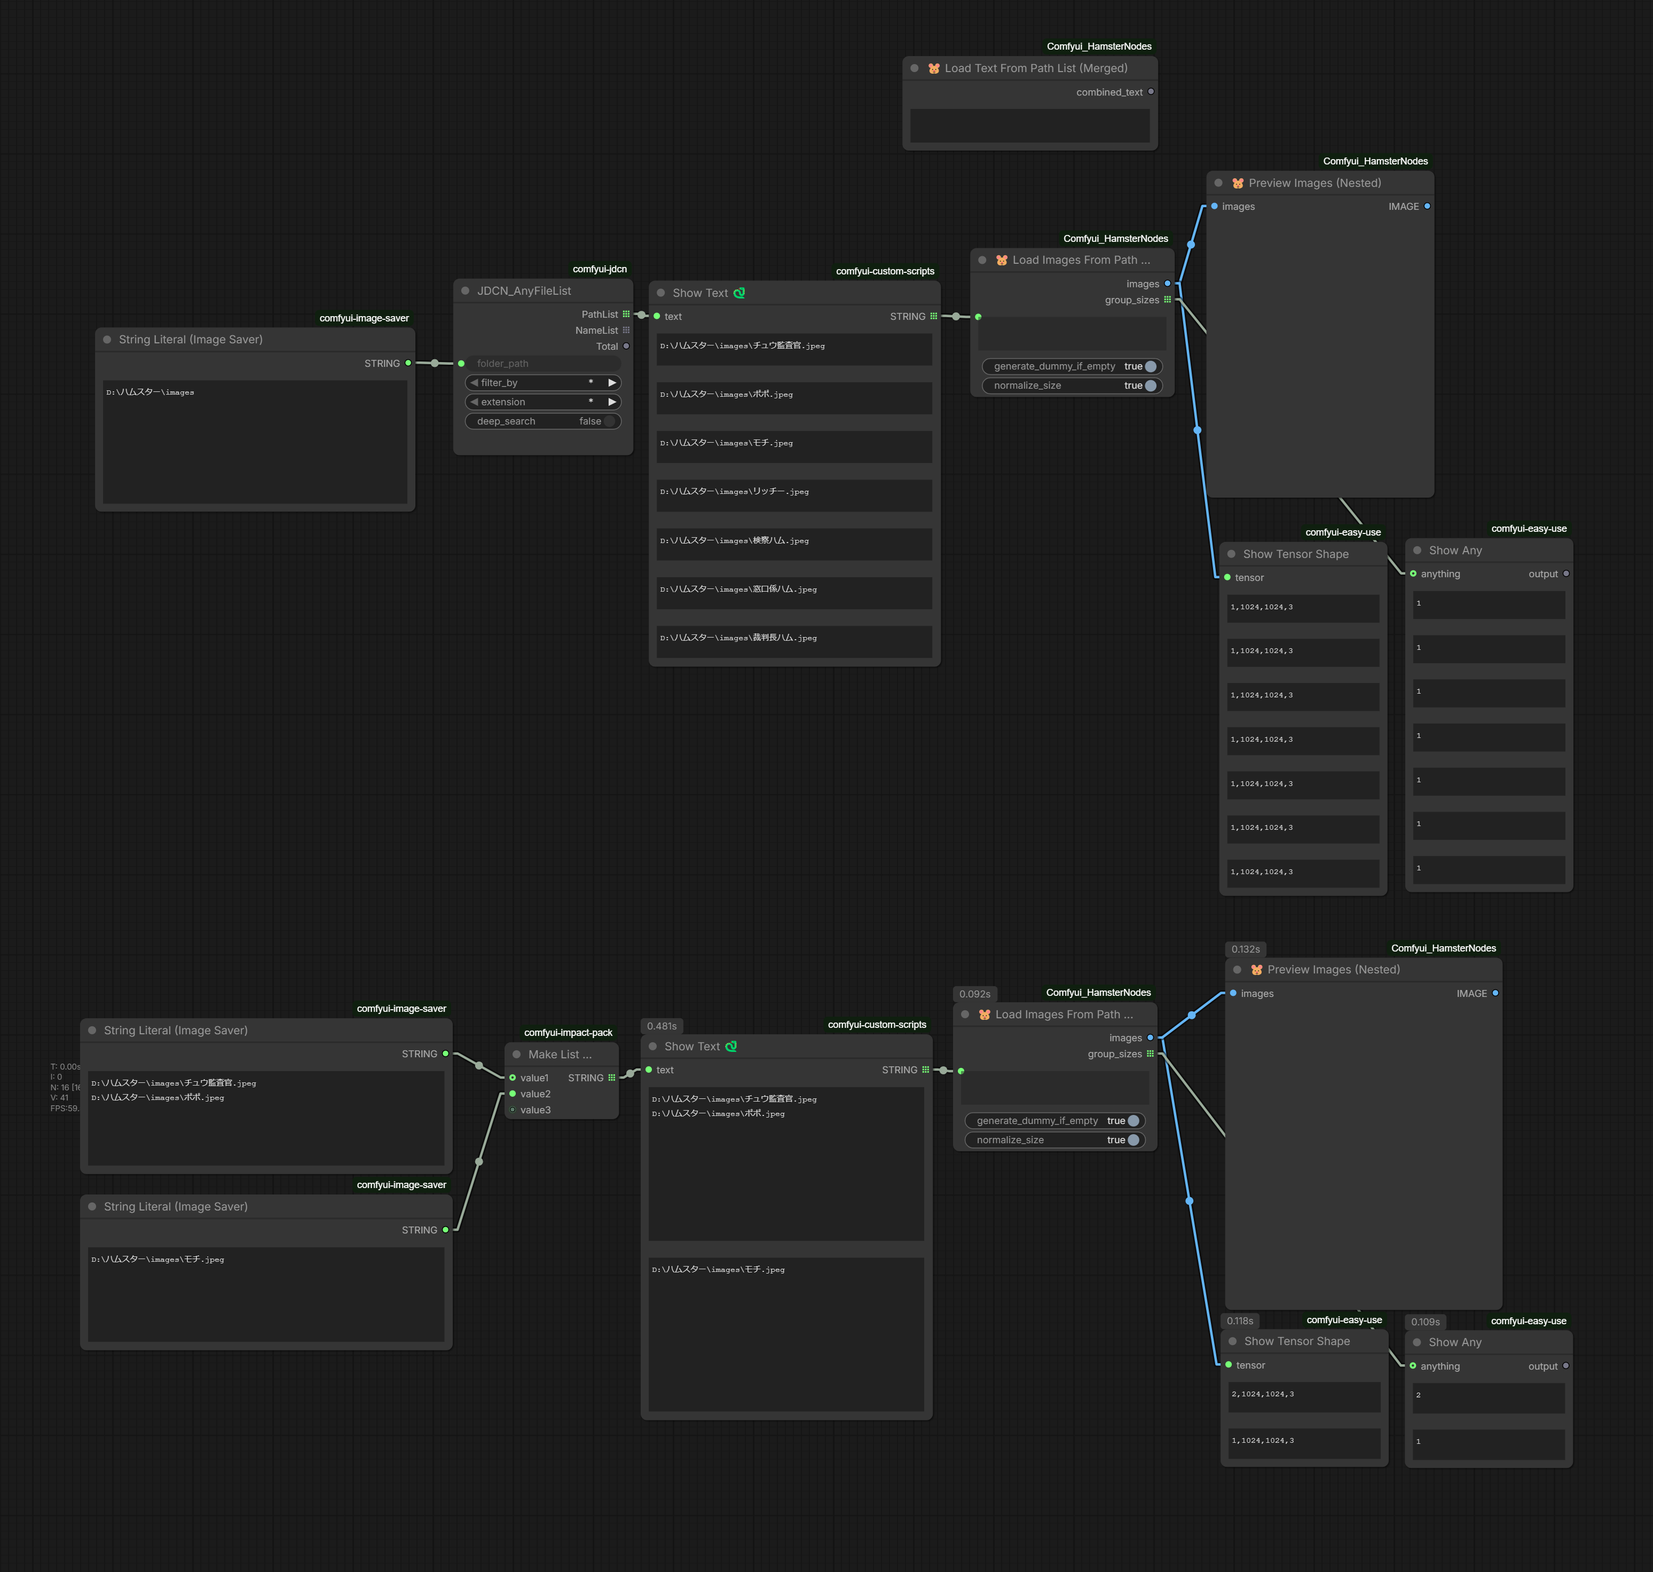
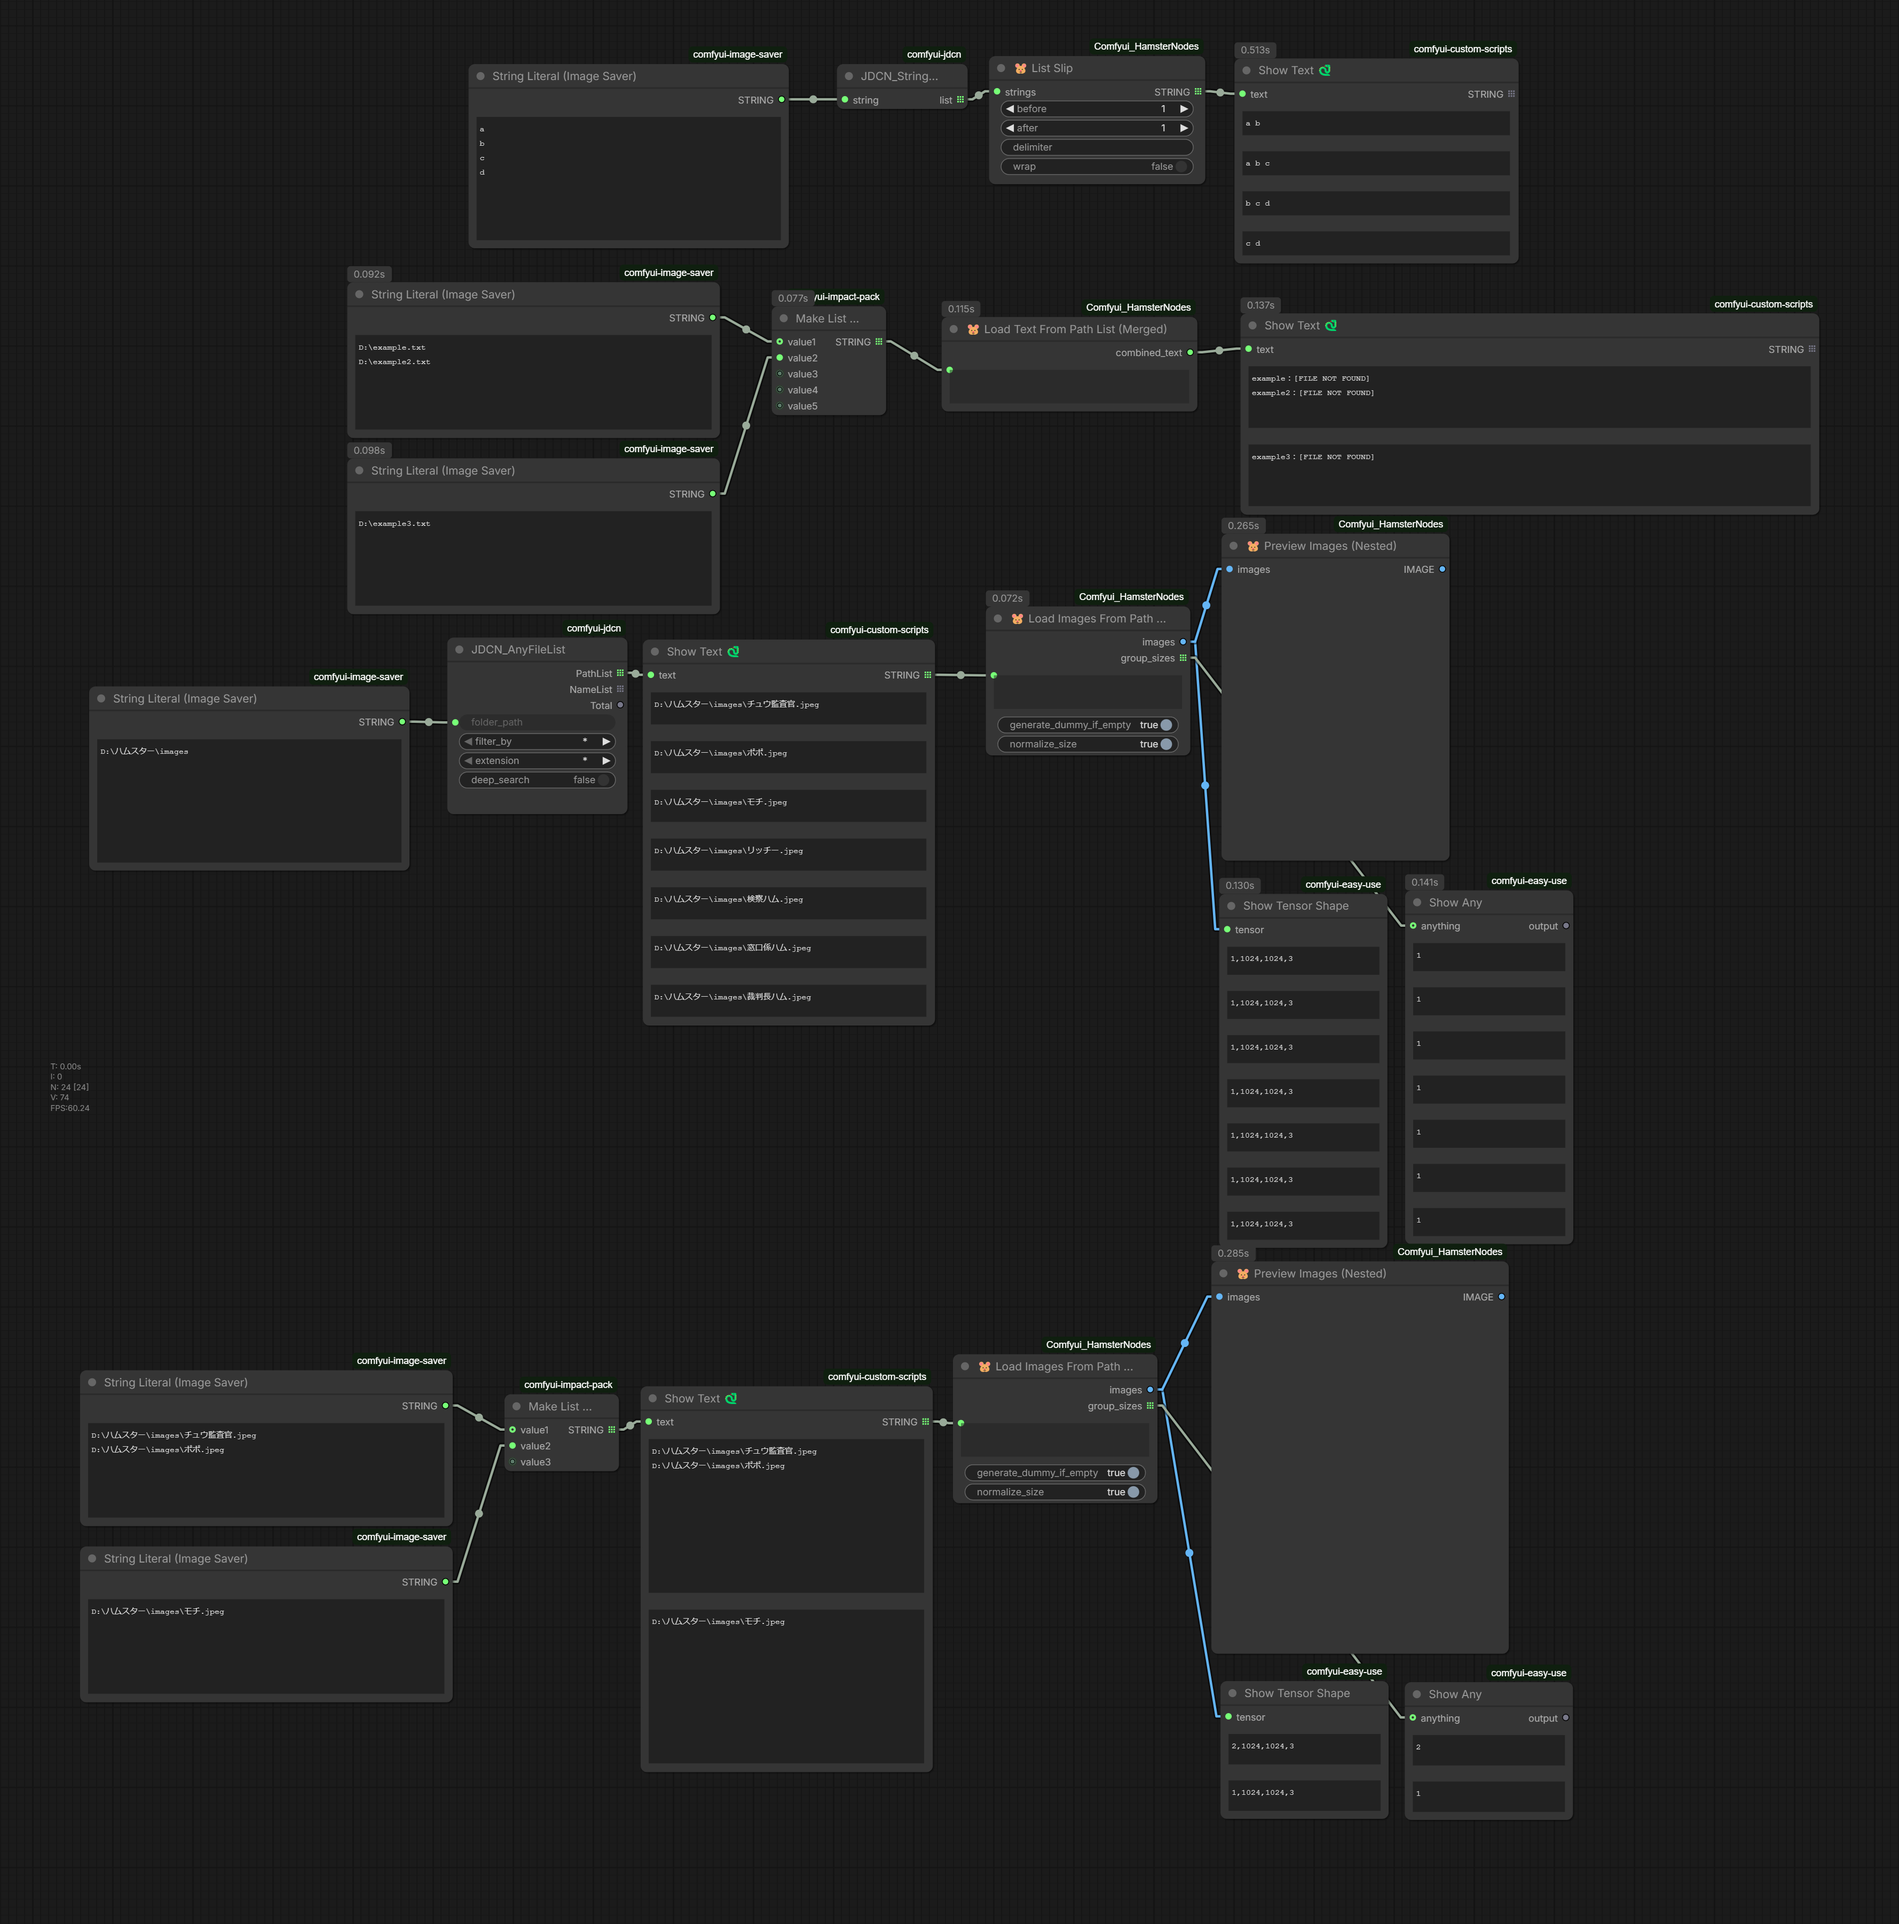
updated

Changed region(s): [[0.031, 0.0, 0.9612, 0.9688], [0.3411, 0.9062, 0.4961, 0.9375]]

diff --git a/js/preview_nested.js b/js/preview_nested.js
@@ -9,9 +9,15 @@ app.registerExtension({
             nodeType.prototype.onExecuted = function (message) {
                 onExecuted?.apply(this, arguments);
 
-                // 既存のウィジェットをクリア
+                // ランダムID（キャッシュ対策）
+                const run_id = Date.now() + "_" + Math.random();
+
+                // 既存widget削除（安全に）
                 if (this.widgets) {
-                    this.widgets = this.widgets.filter(w => w.name !== "nested_preview");
+                    const w = this.widgets.find(w => w.name === "nested_preview");
+                    if (w) {
+                        this.removeWidget?.(w);
+                    }
                 }
 
                 const mainContainer = document.createElement("div");
@@ -24,8 +30,7 @@ app.registerExtension({
                 mainContainer.style.overflowY = "auto";
                 mainContainer.style.overflowX = "hidden";
 
-                // 【重要】ノードの現在のサイズに合わせて初期の高さを設定
-                const headerHeight = 40; // ノードのタイトルバー等の概算高さ
+                const headerHeight = 40;
                 mainContainer.style.height = `${this.size[1] - headerHeight}px`;
 
                 message.nested_images.forEach((group, gIdx) => {
@@ -35,20 +40,28 @@ app.registerExtension({
                     groupWrapper.style.padding = "4px";
                     groupWrapper.style.marginBottom = "5px";
                     groupWrapper.style.backgroundColor = "rgba(0,0,0,0.2)";
-                    groupWrapper.innerHTML = `<div style="font-size:10px; color:#aaa;">Group ${gIdx}</div>`;
+
+                    const label = document.createElement("div");
+                    label.textContent = `Group ${gIdx}`;
+                    label.style.fontSize = "10px";
+                    label.style.color = "#aaa";
+                    groupWrapper.appendChild(label);
 
                     const imgList = document.createElement("div");
                     imgList.style.display = "flex";
                     imgList.style.flexWrap = "wrap";
                     imgList.style.gap = "4px";
 
-                    group.forEach(imgData => {
+                    group.forEach((imgData, i) => {
                         const imgContainer = document.createElement("div");
                         imgContainer.style.flex = "1 1 100px";
                         imgContainer.style.maxWidth = "100%";
 
                         const img = document.createElement("img");
-                        img.src = `/view?filename=${imgData.filename}&type=${imgData.type}`;
+
+                        // ★ キャッシュ完全回避
+                        img.src = `/view?filename=${imgData.filename}&type=${imgData.type}&t=${run_id}_${i}`;
+
                         img.style.width = "100%";
                         img.style.height = "auto";
                         img.style.display = "block";
@@ -56,27 +69,30 @@ app.registerExtension({
                         imgContainer.appendChild(img);
                         imgList.appendChild(imgContainer);
                     });
+
                     groupWrapper.appendChild(imgList);
                     mainContainer.appendChild(groupWrapper);
                 });
 
                 this.addDOMWidget("nested_preview", "HTML", mainContainer);
+
                 this.setDirtyCanvas(true, true);
             };
 
-            // 【修正の肝】ノードがリサイズされたときに呼ばれる関数
             const onResize = nodeType.prototype.onResize;
+
             nodeType.prototype.onResize = function (size) {
                 if (onResize) onResize.apply(this, arguments);
 
-                // ノード内にある作成したDOMウィジェットを探す
                 const widget = this.widgets?.find(w => w.name === "nested_preview");
+
                 if (widget && widget.element) {
                     const headerHeight = 40;
-                    // ノードの新しいサイズ(size[1])に合わせて、中のHTMLの高さを書き換える
+
                     widget.element.style.height = `${size[1] - headerHeight}px`;
-                    // 横幅も必要に応じて調整（基本は100%でOK）
-                    widget.element.style.width = `${size - 10}px`;
+
+                    // ★ 修正ポイント
+                    widget.element.style.width = `${size[0] - 10}px`;
                 }
             };
         }
